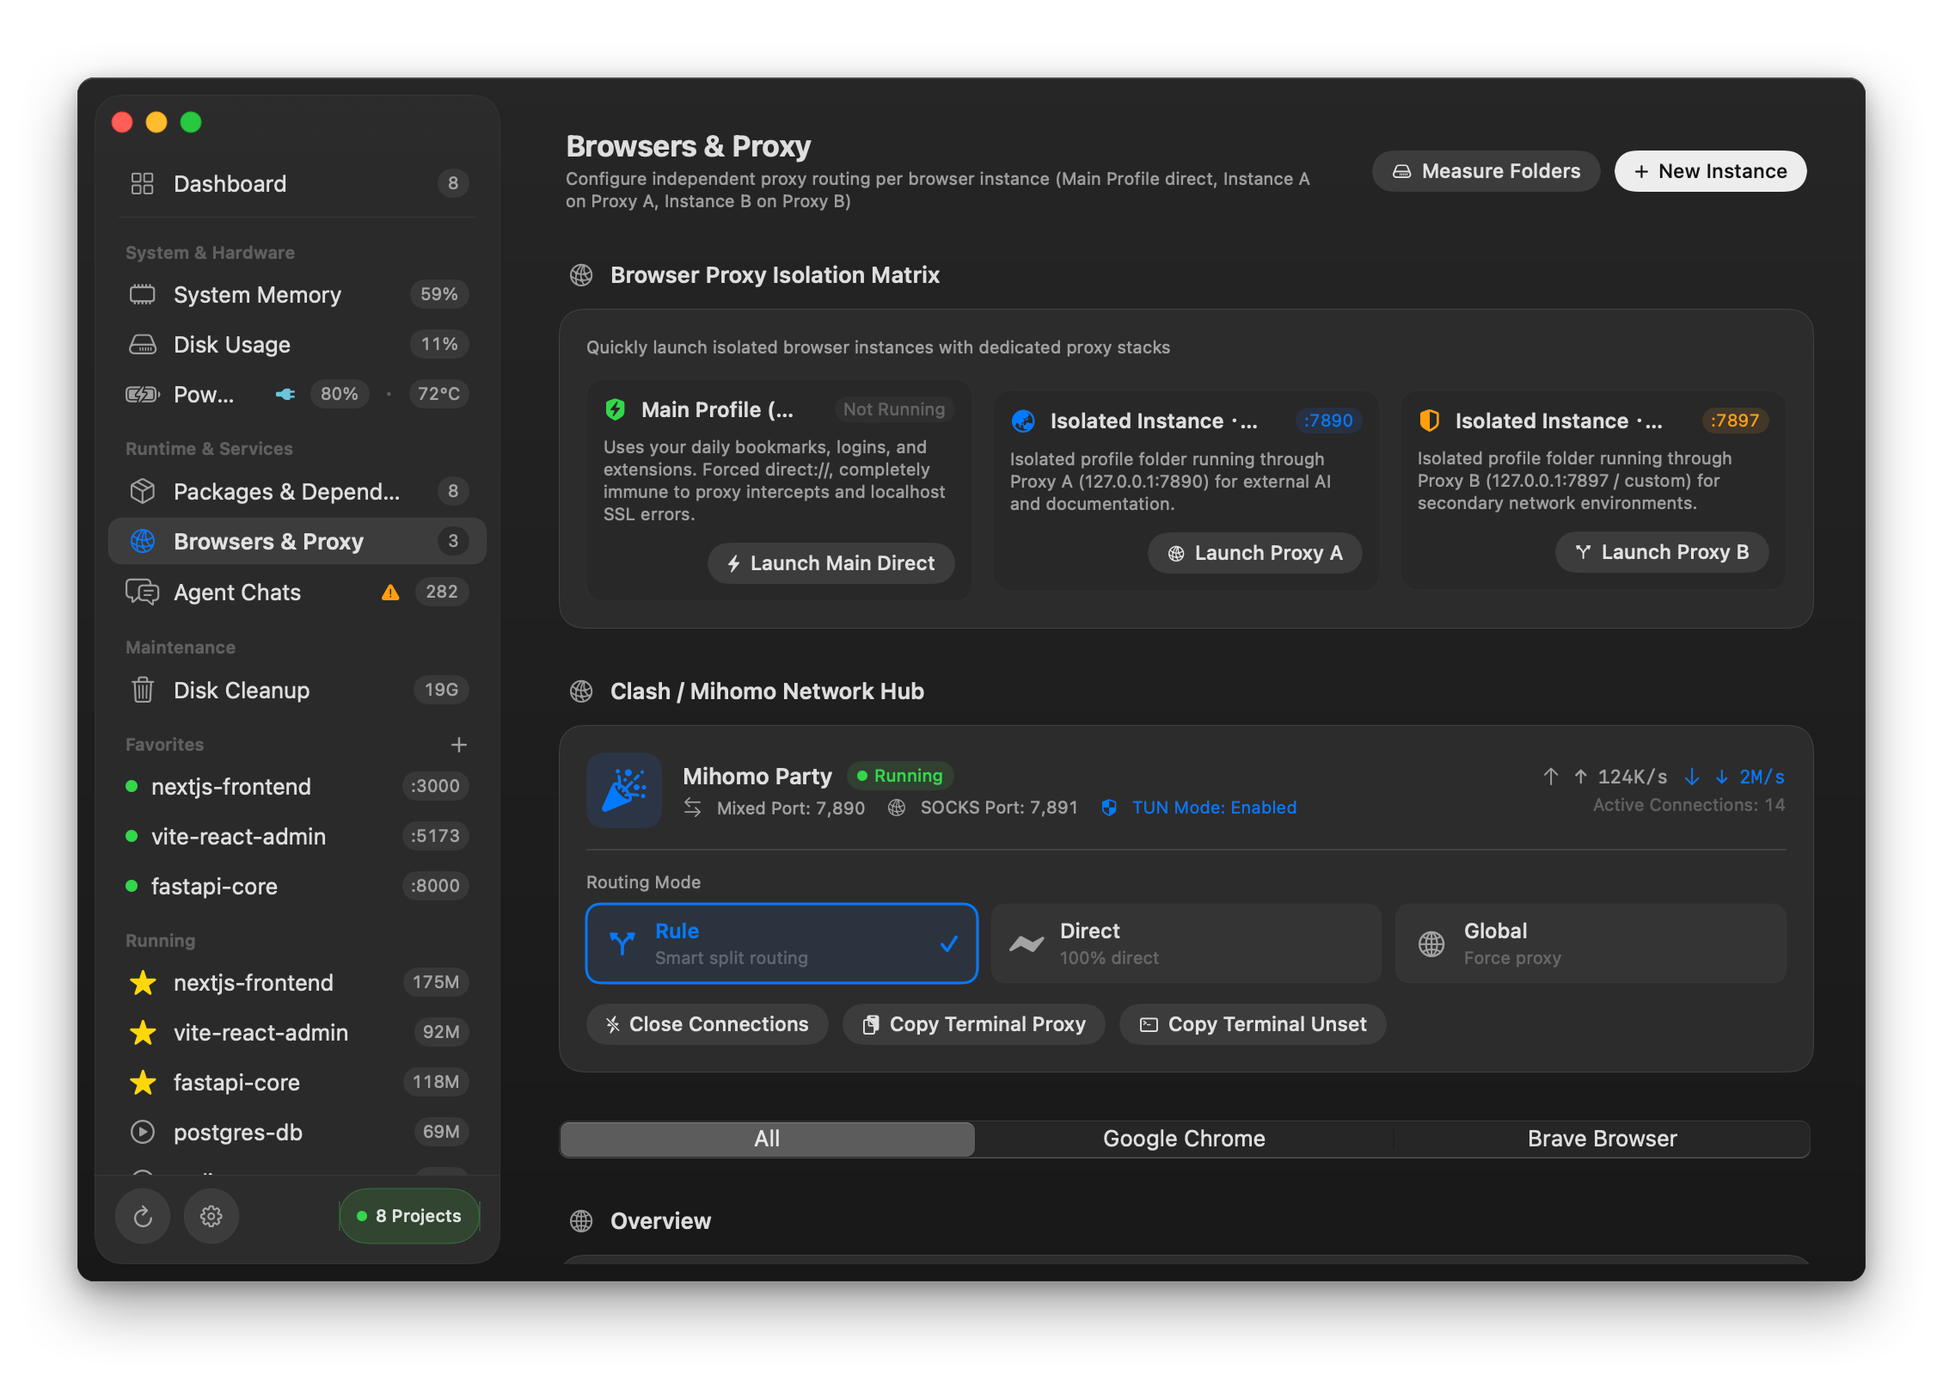
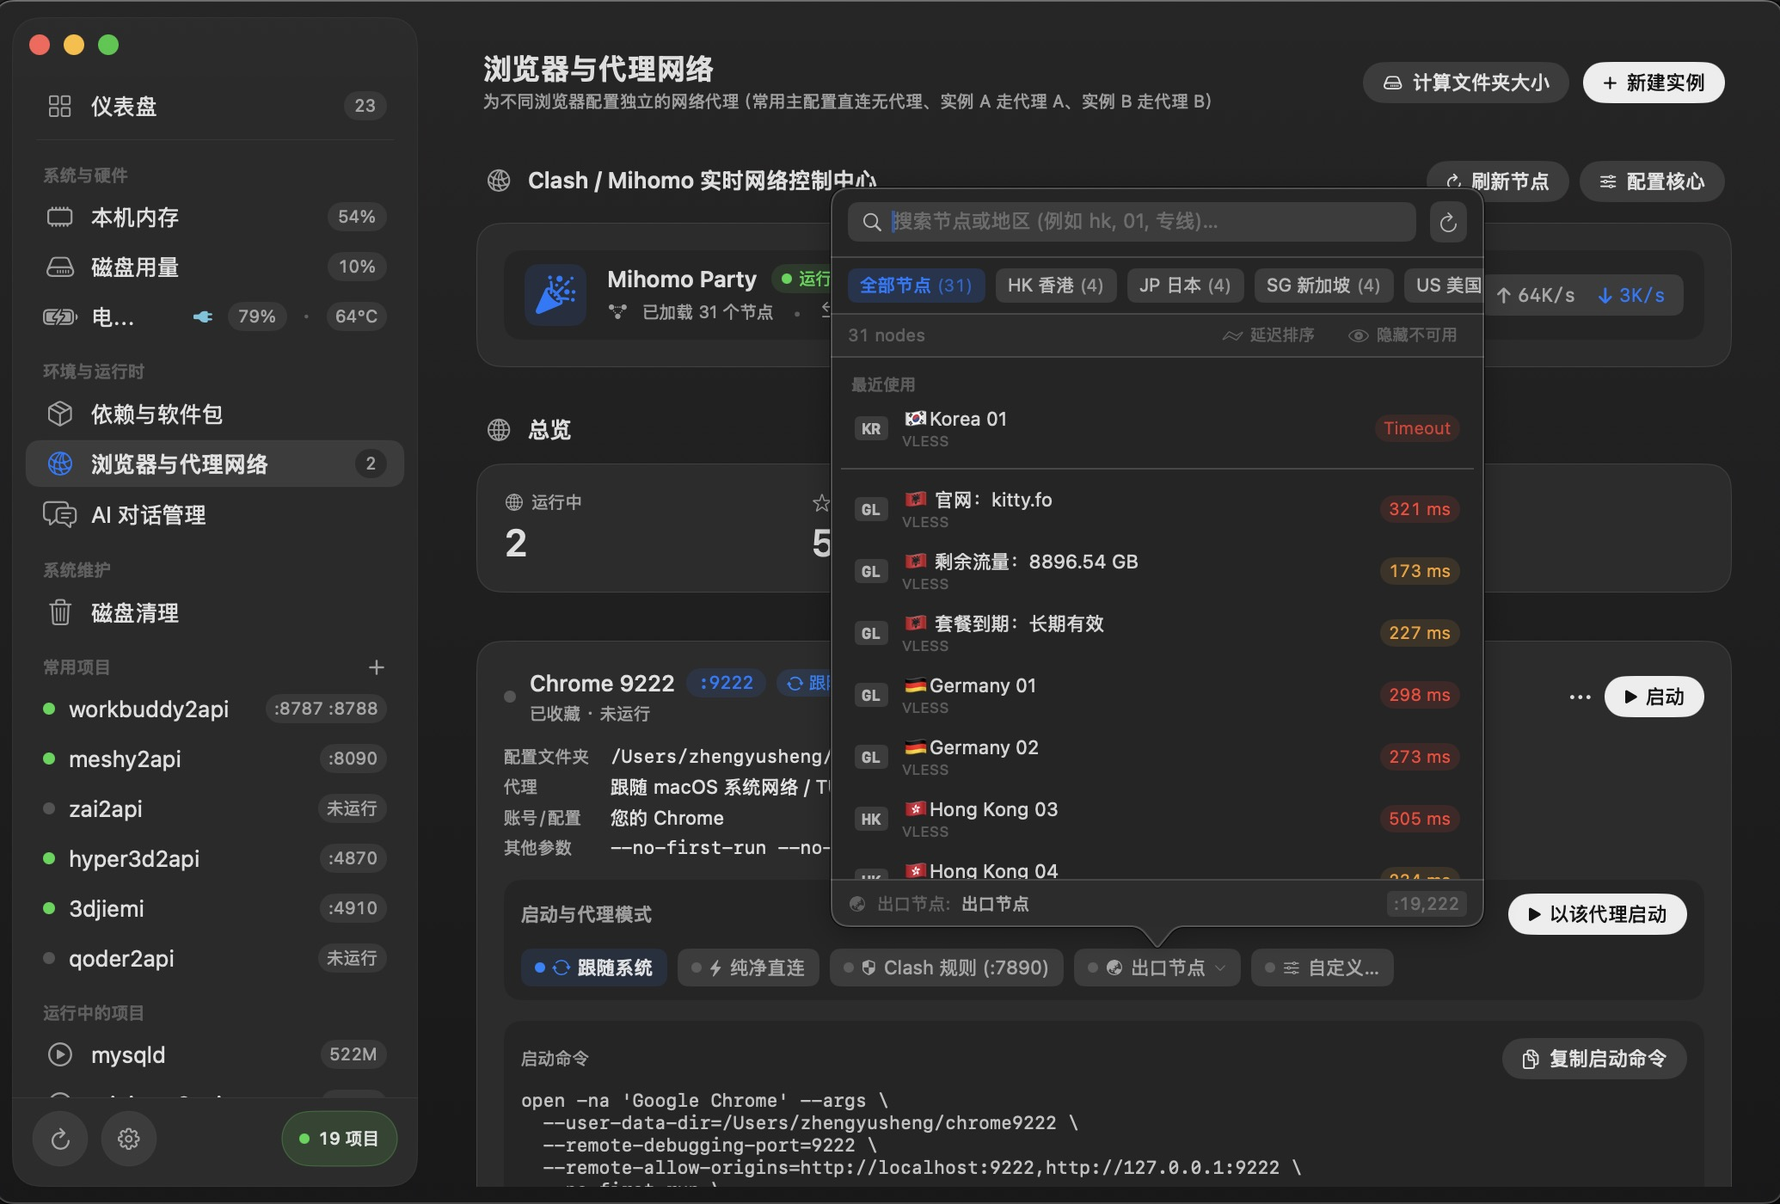
docs(agents): document release workflow pipeline and bump version references to 3.2.0

diff --git a/Sources/PharosCore/UpdatePolicy.swift b/Sources/PharosCore/UpdatePolicy.swift
@@ -172,7 +172,7 @@ public enum UpdatePolicy {
 
     /// Parses GitHub's public releases.atom feed (completely immune to API rate limits).
     public static func parseAtomFeed(xml: String) throws -> ReleaseManifest {
-        var tagName: String = "v3.1.0"
+        var tagName: String = "v3.2.0"
         if let idRegex = try? NSRegularExpression(pattern: "<id>tag:github\\.com,2008:Repository/[^/]+/([^<]+)</id>"),
            let match = idRegex.firstMatch(in: xml, options: [], range: NSRange(xml.startIndex..<xml.endIndex, in: xml)),
            let r = Range(match.range(at: 1), in: xml) {

diff --git a/Sources/Pharos/UpdateStore.swift b/Sources/Pharos/UpdateStore.swift
@@ -23,7 +23,7 @@ final class UpdateStore: ObservableObject {
     }
 
     public var currentVersion: String {
-        Bundle.main.infoDictionary?["CFBundleShortVersionString"] as? String ?? "3.1.0"
+        Bundle.main.infoDictionary?["CFBundleShortVersionString"] as? String ?? "3.2.0"
     }
 
     // MARK: - State

diff --git a/Casks/pharos.rb b/Casks/pharos.rb
@@ -1,6 +1,6 @@
 cask "pharos" do
-  version "3.1.0"
[1 lines of base64/hex data omitted]
+  version "3.2.0"
[1 lines of base64/hex data omitted]
 
   url "https://github.com/Zhengyuuuui/Pharos/releases/download/v#{version}/Pharos-#{version}.dmg"
   name "Pharos"

diff --git a/README.md b/README.md
@@ -15,19 +15,19 @@
   <img src="https://img.shields.io/badge/dependencies-none-brightgreen" alt="Dependencies">
   <img src="https://img.shields.io/badge/network-none-lightgrey" alt="No network">
   <img src="https://img.shields.io/badge/license-AGPL--3.0-blue" alt="License">
-  <img src="https://img.shields.io/badge/version-3.1.0-blue" alt="Version 3.1.0">
-  <img src="https://img.shields.io/badge/updated-2026--11--05-informational" alt="Last updated 2026-11-05">
+  <img src="https://img.shields.io/badge/version-3.2.0-blue" alt="Version 3.2.0">
+  <img src="https://img.shields.io/badge/updated-2026--11--07-informational" alt="Last updated 2026-11-07">
 </p>
 
-<p align="center"><sub>Last updated / 最后更新：2026-11-05 · v3.1.0 (Official Release / 正式版) · Author / 作者：zys · Model / 模型：Gemini 4 Argon</sub></p>
+<p align="center"><sub>Last updated / 最后更新：2026-11-07 · v3.2.0 (Official Release / 正式版) · Author / 作者：zys · Model / 模型：Gemini 4 Argon</sub></p>
 
 <p align="center"><b>English</b> · <a href="README_CN.md">简体中文</a> · <a href="CHANGELOG.md">Changelog / 更新记录</a></p>
 
 ---
 
 > [!TIP]
-> **🚀 Pharos v3.1.0 Official Release is now live!**
-> Pharos is officially released! Featuring memory bloat diagnostics & permanent daemon governance (`Not Launch`), 60 FPS tachometer cockpit fan control, hardware battery charge limit with lid-closed persistence, full Clash/Mihomo proxy isolation matrix, 23+ AI IDE chat database analyzer, and CleanMyMac-parity disk cleanup in 100% native Swift.
+> **🚀 Pharos v3.2.0 is now live!**
+> Featuring the all-new **Spotlight-Style Proxy Node Picker Popover** with active concurrency latency ping testing and region categorization chips, an **In-App Background Self-Update Engine** powered by Cloudflare Worker edge gateway with GitHub fallback and SHA-256 verification, and **PharosSlimScroller** (3.5 pt ultra-slim overlay scroller) eliminating visual UI noise across all pages. 100% native Swift, zero third-party dependencies.
 
 <p align="center">
   <img src="img/01-dashboard-ports.png" width="880" alt="Pharos Dashboard & Ports Overview">
@@ -40,7 +40,7 @@
 Requires **macOS 14+** (Sonoma / Sequoia · Apple Silicon & Intel).
 
 ### Option 1: Direct Download (DMG)
-Download the latest [**Pharos-3.1.0.dmg**](https://github.com/Zhengyuuuui/Pharos/releases/download/v3.1.0/Pharos-3.1.0.dmg) (or view on [GitHub Releases](https://github.com/Zhengyuuuui/Pharos/releases/latest)), open it, and drag `Pharos.app` to your `/Applications` folder.
[1 lines of base64/hex data omitted]
 
 ### Option 2: Homebrew
 ```sh
@@ -72,10 +72,11 @@ The icon is that idea drawn literally: a radar-like beam sweeping a dot grid, li
 | **Stop processes** | `SIGTERM` first, `SIGKILL` only if it refuses; never system or other users' processes |
 | **Disk cleanup** | 4 specialized cleaning hubs: System & Caches (with sub-directory inspection & single-item clean), Orphaned App Leftovers scanner, npkill-style Project Purge (dormancy detection & batch release), and Dev & AI Tools (Homebrew multi-versions, Ollama/HuggingFace model weights with layer blob GC, Docker.raw & Xcode simulators) |
 | **Favorite projects & portable start contract** | Cross-ecosystem project start engine (peels through wrappers like `cross-env`/`dotenv` to match `package.json`, detects `go.mod`, `Cargo.toml`, `uv`/`poetry`/Django, Gradle/Maven), offering 100% portable start commands across developer machines; open in Terminal or copy command |
-| **Browsers & Proxy** | Clash / Mihomo network control hub (automatic detection of all major clients, UDS & HTTP dual-channel, hot mode switching & connection reset) and Chromium proxy isolation matrix (pure direct `direct://` for local debugging vs Clash rule proxy); manage Chrome, Edge, Brave profiles |
+| **Browsers & Proxy** | Clash / Mihomo network control hub (automatic detection of all major clients, UDS & HTTP dual-channel, hot mode switching & connection reset) and Chromium proxy isolation matrix; **Spotlight-Style Node Picker Popover** with fuzzy search, region filter chips (HK, JP, SG, US, TW, KR, EU), active concurrency latency ping testing, intelligent health ranking, and dedicated per-instance outbound listener proxy routing |
+| **In-App Self-Update** | Dual-channel edge update engine (Cloudflare Worker gateway + GitHub Releases fallback), silent background check schedule, SHA-256 integrity validation, code signature verification, and atomic app swap & restart |
 | **AI agent chat databases** | Inspect, clean and backup local chat / session databases from 23+ AI IDEs and editors (Cursor, Trae, Windsurf, VS Code, Antigravity, OpenCode, Claude Code, MiniMax…); nanosecond-precision incremental fingerprint cache (`DB + WAL` size/mtime) skips unchanged databases; detect orphaned workspaces; manually add and scan any custom application under `/Applications` |
 | **Packages & CLI tools** | Real Homebrew Cellar formula & Caskroom package scanning, diagnostics (`brew doctor`/`services`) and cache cleanup; global CLI tools (Node, Homebrew, Rust, Python, Go) with terminal run, reveal and uninstall; two-stage progressive project dependency scanning with `mtime` + lockfile fingerprint cache across 10 developer workspace directories (`.venv`, `node_modules`, `.build`, `target`); language cache repos overview |
-| **Design system & sidebar** | Strict 3-step lightness hierarchy (`background` → `surface` → `fill` with calibrated high-contrast tokens and `Font.TextStyle` dynamic typography), floating sidebar island with native traffic lights and customizable frosted-glass scroll blur (0%–100% slider + live top-left 3-buttons preview in Settings), zero AppKit blue highlight clashing, and adaptive responsive popover customizer (`ViewThatFits`) |
+| **Design system & sidebar** | Strict 3-step lightness hierarchy (`background` → `surface` → `fill` with calibrated high-contrast tokens and `Font.TextStyle` dynamic typography), floating sidebar island with native traffic lights and customizable frosted-glass scroll blur (0%–100% slider + live preview in Settings), **PharosSlimScroller** (3.5pt ultra-slim overlay scroller, zero gutter, transparent track) across all pages, 100% zero-emoji design compliance, and adaptive responsive popover customizer (`ViewThatFits`) |
 
 ---
 
@@ -159,20 +160,35 @@ The icon is that idea drawn literally: a radar-like beam sweeping a dot grid, li
    - Automatically detects active local Mihomo/Clash engines: Mihomo Party / Clash Party (via `/tmp/mihomo-party-*.sock` Unix Domain Socket without credentials), Clash Verge Rev, Clash Nyanpasu, ClashX.Meta, Flclash, and generic Mihomo CLI.
    - Live display of Mixed Port, SOCKS Port, TUN virtual network adapter state, active connections, and real-time upload/download speeds.
    - Millisecond-level hot switching between **Rule**, **Direct**, and **Global** routing modes without restarting the client; one-click reset for all open connections to immediately route traffic to the new mode; one-click copy for terminal proxy configuration (`export http_proxy` / `unset`).
-2. **Browser Proxy Isolation Matrix**:
+2. **Spotlight-Style Node Picker Popover & Real-time Ping Testing**:
+   - **Floating Spotlight Popover**: Replaces cumbersome 300+ item native menus with a sleek 380×430 pt floating popover panel with instant fuzzy search (`TextField` with Enter-key instant selection).
+   - **Region Categorization Chips**: One-click region filtering across `All`, `HK`, `JP`, `SG`, `US`, `TW`, `KR`, `EU`, and `Other` with live node count badges.
+   - **Active Concurrency Latency Ping**: The refresh button directly commands the Mihomo core (`GET /group/GLOBAL/delay?url=...&timeout=3000`) to test all node latencies concurrently in real-time, completely refreshing stale cached values in seconds.
+   - **Intelligent Status Ranking & Offline Filtering**: Three-tier ranking model (`statusRank`: 0=healthy, 1=untested, 2=timeout). Healthy, responsive nodes always sort to the top; timeout nodes (`delay == 0` or connection failed) are relegated to the bottom with red `Timeout` badges, and can be cleanly hidden with the "Hide Offline" toggle.
+   - **Recent Node Memory**: Remembers recently selected nodes for instant one-click switching.
+3. **Browser Proxy Isolation Matrix & Per-Instance Outbound Routing**:
    - **Local Dev Direct Browser**: Launch dedicated Chromium profiles with `--proxy-server="direct://"` and `--no-proxy-server`. Even when Clash system proxy or TUN mode is running, 100% of requests to `localhost`, `127.0.0.1`, and internal APIs bypass the proxy, eliminating SSL errors and proxy interference.
+   - **Follow System Mode**: Prominently styled in Apple System Blue capsule with `arrow.triangle.2.circlepath` and clear descriptive metadata (`代理: 跟随 macOS 系统网络 / TUN 代理`).
+   - **Dedicated Node Proxy Listener**: Chromium instances can be mapped to dedicated outbound proxy nodes via dynamic local listeners (`10000 + debugPort`), allowing individual browser profiles to route through separate nodes simultaneously (e.g. Work profile direct, Profile A via HK, Profile B via US).
    - **AI & Research Browser**: Launch profiles with `--proxy-server="http://127.0.0.1:7890"` to take advantage of node acceleration and smart split routing for foreign docs and LLM APIs.
-3. **Chromium Browser Instance Management**:
-   - Supports Google Chrome, Chrome Beta, Chrome Canary, Chromium, Microsoft Edge and Brave; every instance card features a proxy strategy capsule badge (`[Direct]` or `[Clash :7890]`) with in-drawer strategy editing.
-   - Several browsers side by side (e.g. Chrome for work, Edge for testing, Brave for personal): a filter bar switches between them, and “All” groups instances per browser with running count and memory
-   - **Settings → Browsers**: every supported browser with installed / running / saved counts and its default profile folder; hide browsers you don't use and choose which one “New Instance” uses
-   - Every running browser, identified by its profile folder (`--user-data-dir`): debug port, proxy, start URL, signed-in profiles, memory incl. all helper processes, folder size on demand. Debug-profile browsers no longer clutter the project list
-   - ☆ saves a running instance as a preset with its exact flags; **New Instance** picks the next free port and a `~/chromeNNNN` folder; every field is editable
-   - Saved instances stay listed after you quit Chrome (“saved · not running”) with their port and the exact **launch command** — a ready-to-paste `open -na 'Google Chrome' --args …` with a copy button; ★ again removes it
-   - If a saved instance is relaunched elsewhere with different flags, the card says so and **Update Preset** adopts the running flags
-   - **Start** runs `open -na "Google Chrome" --args …` after checking the folder isn't already open and the port is free
-   - **Quit** sends `SIGTERM` (normal Chrome shutdown, tabs restore next time); force quit is offered only if it's still open after 3 s
-   - 🐞 opens `http://127.0.0.1:<port>` (DevTools target list) in your default browser. Pharos itself never connects to debug ports
+4. **Chromium Browser Instance Management & Relaunch Safeguards**:
+   - Supports Google Chrome, Chrome Beta, Chrome Canary, Chromium, Microsoft Edge and Brave; every instance card features a proxy strategy capsule badge (`[Direct]`, `[Clash :7890]`, or `[NodeName :Port]`) with in-drawer strategy editing.
+   - Several browsers side by side (e.g. Chrome for work, Edge for testing, Brave for personal): a filter bar switches between them, and “All” groups instances per browser with running count and memory.
+   - **Settings → Browsers**: every supported browser with installed / running / saved counts and its default profile folder; hide browsers you don't use and choose which one “New Instance” uses.
+   - Every running browser, identified by its profile folder (`--user-data-dir`): debug port, proxy, start URL, signed-in profiles, memory incl. all helper processes, folder size on demand. Debug-profile browsers no longer clutter the project list.
+   - **Relaunch Confirmation Modal**: Prevents accidental tab closure when hot-switching or relaunching a running browser with new proxy flags; destructive operations require explicit user confirmation.
+   - ☆ saves a running instance as a preset with its exact flags; **New Instance** picks the next free port and a `~/chromeNNNN` folder; every field is editable.
+   - Saved instances stay listed after you quit Chrome (“saved · not running”) with their port and the exact **launch command** — a ready-to-paste `open -na 'Google Chrome' --args …` with a copy button; ★ again removes it.
+   - If a saved instance is relaunched elsewhere with different flags, the card says so and **Update Preset** adopts the running flags.
+   - **Start** runs `open -na "Google Chrome" --args …` after checking the folder isn't already open and the port is free.
+   - **Quit** sends `SIGTERM` (normal Chrome shutdown, tabs restore next time); force quit is offered only if it's still open after 3 s.
+   - 🐞 opens `http://127.0.0.1:<port>` (DevTools target list) in your default browser. Pharos itself never connects to debug ports.
+
+### In-App Background Self-Update (Dual-Channel & Atomic Swap)
+- **Cloudflare Worker Edge Update Gateway**: Fast, low-latency update checks powered by `pharos-update-worker` (`https://pharos-update.zysgm123.workers.dev/api/v1/latest`), with transparent zero-config fallback to GitHub Releases REST API and rate-limit immune `releases.atom` XML feeds.
+- **Automated Silent Background Checks**: Low-overhead background check with unobtrusive sidebar update badges and release notes preview.
+- **Double Integrity & Security Verification**: SHA-256 binary checksum validation via `CryptoKit`, DMG mount, and macOS deep codesign verification (`codesign --verify --deep --strict`).
+- **Seamless Atomic Handover**: Automatic quarantine attribute removal (`xattr -dr com.apple.quarantine`), atomic staging replacement, and instant app restart with zero manual drag-and-drop required.
 
 ### Disk cleanup
 Four dedicated cleaning modules engineered in pure Apple Swift to deliver all major capabilities of CleanMyMac and Mole, tailored specifically for modern AI agents and developer workflows:
@@ -337,6 +353,11 @@ make icon                           # regenerate the app icon from Scripts/make-
 ---
 
 ## Recent Updates
+
+### v3.2 (2026-11-07)
+- **Spotlight-Style Proxy Node Picker Popover & Concurrency Latency Ping**: replaced clumsy native menus with a 380×430 pt floating popover featuring real-time fuzzy search, country/region classification chips (HK, JP, SG, US, TW, KR, EU), active concurrency latency ping testing directly calling Mihomo core (`GET /group/GLOBAL/delay`), intelligent health ranking (`statusRank`: healthy top, timeout bottom), and "Hide Offline" toggle.
+- **In-App Background Self-Update Engine**: Cloudflare Worker edge update gateway (`pharos-update-worker`) with transparent GitHub Releases REST API and `releases.atom` dual-channel fallback, automatic low-overhead background check schedule, SHA-256 binary integrity verification, deep codesign validation, and atomic DMG replacement & relaunch.
+- **PharosSlimScroller UI/UX Polish**: unified 3.5 pt ultra-slim semi-transparent floating capsule scroller (`PharosSlimScroller`) with zero gutter and transparent track across all scrollable pages, eliminating macOS 15 pt thick scrollbar visual noise and button obstruction; 100% emoji-free design compliance (`DESIGN.md` §2.6) with monochrome SF Symbols; and destructive browser relaunch confirmation dialog.
 
 ### v3.1 (2026-10-31)
 - **Memory Bloat Doctor & Permanent System Daemon Governance (`Not Launch`)**: diagnoses 8 categories of macOS background memory-bloating daemons (`mediaanalysisd` / `photoanalysisd`, `mds_stores`, `diagnosticd`, `bird`, `WallpaperVideoExtension`, `suggestd` / `intelligenceplatformd`, `commerce`, `SimLaunchHostService`); supports both one-click safe `SIGTERM` memory reclamation and permanent user-domain `launchctl disable` (`Not Launch`) with one-click restore.

diff --git a/AGENTS.md b/AGENTS.md
@@ -192,3 +192,23 @@ swift build          # 编译通过
 make test            # 全部 assertions 通过（含真实端口扫描测试）
 .build/debug/Pharos --check   # 打印当前项目/端口/内存（--all 含后台应用）
 ```
+
+## 7. 版本发布流水线（Release Workflow）
+
+当需要发布新版本（如 `v3.2.0`）时，流程严格按以下三步执行：
+
+1. **本地编译与打包**：
+   - 在 `Resources/Info.plist`、`Makefile`、`Casks/pharos.rb` 中更新版本号。
+   - 执行 `make dmg`：生成 `dist/Pharos-<版本号>.dmg`，并自动计算输出 `dist/Pharos-<版本号>.dmg.sha256`。
+2. **发布 GitHub Release**：
+   - 在 GitHub 仓库推送对应 tag（如 `v3.2.0`）并创建 Release。
+   - 上传 `dist/Pharos-<版本号>.dmg`。
+   - 在 Release Notes 正文中必须写明 64 位 SHA-256 校验和（格式：`| Pharos-x.y.z.dmg | <sha256> |` 或独立代码行），客户端与 Worker 会用正则自动提取。
+3. **更新 Homebrew Cask**：
+   - 提交并推送 `Casks/pharos.rb`（包含新 version 与对应 sha256）到 `main` 分支。
+4. **Cloudflare Worker 边缘网关状态（无需重新部署，全自动感知）**：
+   - 位于 `cloud/pharos-update-worker/` 的 Worker 是**纯无状态边缘网关**，**无需每次发版时手动部署**。
+   - Worker 采用动态代理模式，实时拉取并缓存（300 秒）GitHub Releases / releases.atom。
+   - 一旦 GitHub Release 上线，全球 Cloudflare 边缘节点在 300 秒缓存失效后**自动无缝更新**最新版本元数据与 DMG 流式下载，客户端应用内更新立即生效。
+   - **仅当 Worker 自身代码（如路由分发规则、缓存策略）发生变更时**，才需要在 `cloud/pharos-update-worker/` 执行 `npx wrangler deploy`。
+
